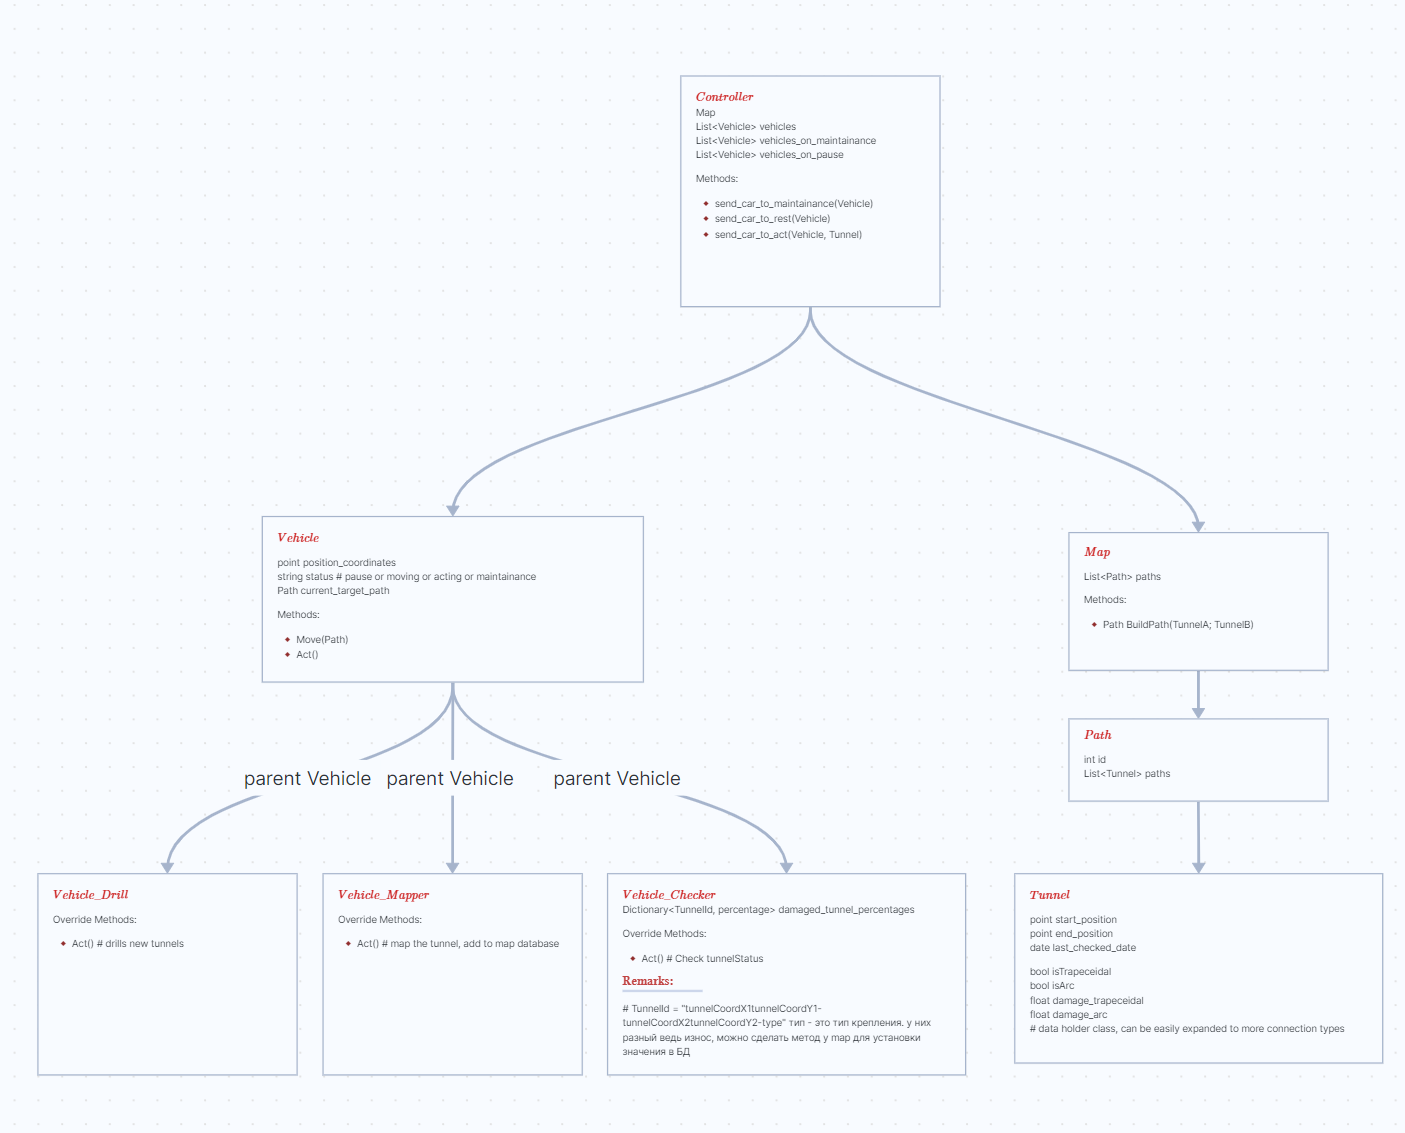
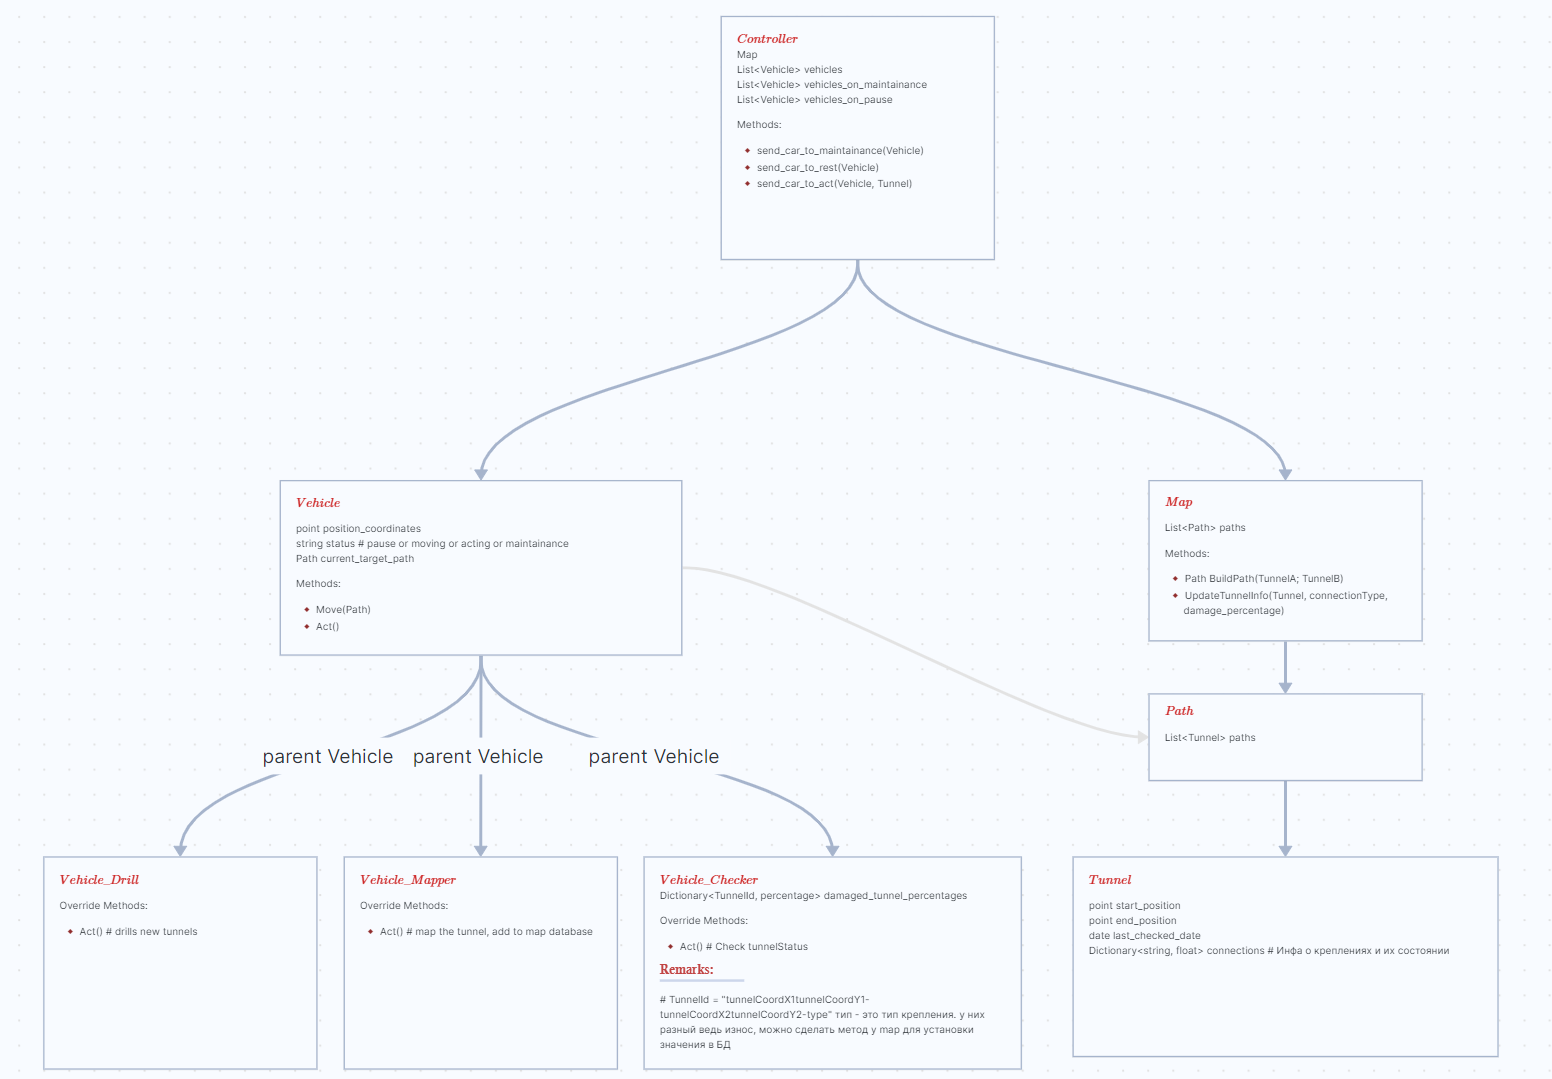
second iteration of code and diagram

diff --git a/factory.py b/factory.py
@@ -16,11 +16,11 @@ class Controller:
 
 
 class Vehicle:
-    def __init__(self):
+    def __init__(self, coordinates, status, current_target_path):
         super().__init__()
-        self.position_coordinates = (0,0)
-        self.status = "pause"  # pause or moving or acting or maintenance
-        self.current_target_path = None
+        self.coordinates = coordinates
+        self.status = status  # "pause" or "moving" or "acting" or "maintenance"
+        self.current_target_path = current_target_path # may be None
 
     def Move(self, path):
         self.current_target_path = path
@@ -32,17 +32,17 @@ class Vehicle:
 
 
 class Vehicle_Drill(Vehicle):
-    def __init__(self):
-        super().__init__()
+    def __init__(self, coordinates, status, current_target_path):
+        super().__init__(coordinates, status, current_target_path)
 
     def Act(self):
-        #Drill baby Drill!
+        #Drill, baby, Drill! Quote - Trump during inauguration
         pass;
 
 
 class Vehicle_Mapper(Vehicle):
-    def __init__(self):
-        super().__init__()
+    def __init__(self, coordinates, status, current_target_path):
+        super().__init__(coordinates, status, current_target_path)
 
     def Act(self):
         #Я карта!
@@ -50,13 +50,20 @@ class Vehicle_Mapper(Vehicle):
 
 
 class Vehicle_Checker(Vehicle):
-    def __init__(self):
-        super().__init__()
+    def __init__(self, coordinates, status, current_target_path):
+        super().__init__(coordinates, status, current_target_path)
         self.damaged_tunnel_percentages = {} #Запись инфы о проверенных туннелях, о повреждении креплениий в конкретных туннелях
 
     def Act(self):
         #Check tunnel connections!
         pass;
+
+
+class Tunnel:
+    def __init__(self, start_position, end_position, connections):
+        self.start_position = start_position
+        self.end_position = end_position
+        self.connections = connections # {"Arc":0%, "Trapeceidal":5%} Stores connection type data
 
 
 class Path:
@@ -71,9 +78,3 @@ class Map:
         pass
     def UpdateTunnelInfo(self, tunnel, connectionType, damage_percentage):
         pass
-
-class Tunnel:
-    def __init__(self, start_position, end_position, connections):
-        self.start_position = start_position
-        self.end_position = end_position
-        self.connections = connections # {"Arc":0%, "Trapeceidal":5%} Stores connection type data
